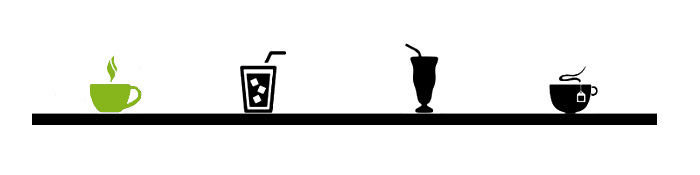
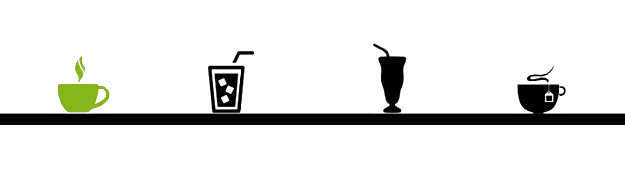
hawt dranks

diff --git a/hotdrinks.html b/hotdrinks.html
@@ -10,15 +10,15 @@
   <script src="js/jquery-1.10.2.min.js"></script>
   <script src="js/lightbox-2.6.min.js"></script>
   <script language="javascript">
-    hotdrinks = new Image(700,175);
+    hotdrinks = new Image(625,175);
     hotdrinks.src = "./img/hothover.png";
-    colddrinks = new Image(700,175);
+    colddrinks = new Image(625,175);
     colddrinks.src = "./img/coldhover.png";
-    specialty = new Image(700,175);
+    specialty = new Image(625,175);
     specialty.src = "./img/specialdrink.png";
-    tea = new Image(700,175);
+    tea = new Image(625,175);
     tea.src = "./img/teadrink.png";
-    og = new Image(700,175);
+    og = new Image(625,175);
     og.src = "./img/main_nav.png";
   </script>
   <script language="javascript">
@@ -41,7 +41,7 @@
 </head>
 
   <body>
-
+      
    <div id="top-nav">
           <div id="nav_container">
               <ul id="nav-ul">
@@ -53,59 +53,54 @@
           </div>
         </div>
    </div>
-      
-   <div id="menu_left_img">
-      <!--<img width="200px" height="150px" src="img/supermocha.jpg">-->
-   </div>
-   <div id="menu_rt_img">
-      <!--<img width="200px" height="150px" src="img/darklatte.jpg">-->
-   </div>
-
-    <div class="icon_nav_container">
-      <img class="icon_nav" name="emp" SRC="./img/main_nav.png" USEMAP="#hovnav">
-        <map id="#hovnav" name="hovnav">
-          <area shape="rect" alt="hotdrink" onFocus= "blur()" onMouseOver= "hothover()" onMouseOut="original()" coords="88,53,143,124" href="hotdrinks.html"  />
-          <area shape="rect" alt="colddrink" onFocus= "blur()" onMouseOver= "coldhover()" onMouseOut="original()" coords="234,51,289,123" href="colddrinks.html" />
-          <area shape="rect" alt="specialty" onFocus= "blur()" onMouseOver= "specialhover()" onMouseOut="original()"coords="403,40,440,123" href="specialties.html" />
-          <area shape="rect" alt="tealist" onFocus= "blur()" onMouseOver= "teahover()" onMouseOut="original()" coords="544,59,599,123" href="tealist.html" />
-        </map>
-    </div>
-
-    <div class = "menucontent">
-        <p class="menuheader"> HOT DRINKS </p>
-                <div class="shotcontainer">
-                    <p class="shotheader"> Single </p>
-                    <p class="shotheader"> Double</p>
-                    <p class="shotheader"> Grande </p>
-                </div>
-        <div id="namemenu">
-            <p>House Coffee</p>
-            <p>Espresso </p>
-            <p>Americano </p> 
-            <p>Cappucchino </p> 
-            <p>Espresso Latté </p> 
-            <p>Espresso Brevé</p>
-            <p>Guittard Espresso Mocha</p>
-            <p>White Espresso Mocha</p>
-            <p>Hammer Head</p>
-            <p>Iced Vietnamese</p>
-            <p>Spiced Chai Latté</p>
-            <p>Dulcé Terbe Maté Leché </p>
-            <p>Guittard Hot Chocolate</p>
-            <p>Chocolaté de Mexico</p>
-            <p>White Hot Chocolate</p>
-            <p>tea Latté (unsweetened)</p>
-            <p>Café au Lait</p>
-            <p>Steamer</p>
-        <br><p style="text-align:center"> Selection of 6        different roasts <br>
-         Wild Cat Dark -- French Roast Dark -- Sumatran Medium -- Columbian Medium <br>
-        Doughnut Shop Medium -- Decaf Maggie Noire Dark </p>
-      </div>
-    </div>
-    <br>
-    <br>
     
    
+    <!--menu left-->
+    <div id="menu-left">
+        <div class="icon_nav_container">
+      <img class="icon_nav" name="emp" SRC="./img/main_nav.png" USEMAP="#hovnav">
+        <map id="#hovnav" name="hovnav">
+          <area shape="rect" alt="hotdrink" onFocus= "blur()" onMouseOver= "hothover()" onMouseOut="original()" coords="23,49,131,122" href="hotdrinks.html"  />
+          <area shape="rect" alt="colddrink" onFocus= "blur()" onMouseOver= "coldhover()" onMouseOut="original()" coords="172,47,284,123" href="colddrinks.html" />
+          <area shape="rect" alt="specialty" onFocus= "blur()" onMouseOver= "specialhover()" onMouseOut="original()"coords="330,42,449,123" href="specialties.html" />
+          <area shape="rect" alt="tealist" onFocus= "blur()" onMouseOver= "teahover()" onMouseOut="original()" coords="483,63,594,123" href="tealist.html" />
+        </map>
+    </div>
+    
+    <div class = "menucontent">
+        <div id="menu-names">
+        <ul>
+            <li>House Coffee</li>
+            <li>Espresso</li>
+            <li>Americano</li>
+            <li>Cappuccino</li>
+            <li>Espresso Latte</li>
+            <li>Espresso Breve</li>
+            <li>Guitlard Espresso Mocha</li>
+            <li>Espresso Mocha de Mexico></li>
+            <li>White Espresso Mocha</li>
+            <li>Hammer Head</li>
+            <li>Iced Vietnamese</li>
+            <li>Spiced Chai Latte</li>
+            <li>Dulce Yerba Mate Leche</li>
+            <li>Guittard Hot Chocolate</li>
+            <li>Chocolate de Mexico</li>
+            <li>White Hot Chocolate</li>
+            <li>Tea Latte</li>
+            <li>Cafe au Lait</li>
+            <li>Steamer</li>
+            </ul>
+        </div>
+        <div id="menu-single"></div>
+        <div id="menu-double"></div>
+        <div id="menu-grande"></div>
+      </div>
+    </div>
+
+     <!--menu right-->
+    <div id="menu-right">
+
+    </div>
     
 
 <script type="text/javascript" src="http://code.jquery.com/jquery-latest.min.js"></script>

diff --git a/css/index.css b/css/index.css
@@ -452,7 +452,6 @@ ul#nav-ul {
 /* menu info */
 .menucontent {
   margin:0 auto;
-  width:48%;
   height:100%;
   font-size: 40pt;
   font-family:'Lato', serif;
@@ -460,7 +459,7 @@ ul#nav-ul {
 }
 
 .shotcontainer{
-margin-left:300px;
+    
 }
 
 .shotheader {
@@ -469,8 +468,52 @@ margin-left:300px;
   letter-spacing: 2px;
   font-size:16px;
   display:inline-block;
-  margin-left:20px;
-  padding:10px;
+  width: 33%;
+    margin: 0 auto;
+}
+
+#menu-left{
+    width: 50%;
+    min-width: 625px;
+    float: left;
+    background-image: url('../img/sprinkles.png');
+}
+
+#menu-left-pattern{
+    width: 100%%;
+    min-width: 625px;
+    float: left;
+    background-image: url('../img/arab_tile.png');
+    background-repeat: repeat;3
+    background-size: auto auto;
+    height: 100%;
+    position: fixed;
+    
+}
+
+#menu-single, #menu-double, #menu-names, #menu-grande{
+    width: 25%;
+    padding: 0px;
+    height: 30px;
+    margin: 0px;
+    display: inline-block;
+    float: left;
+    text-align: left;
+}
+
+#menu-single li, #menu-double li, #menu-names li, #menu-grande li{
+    font-family: 'Lato';
+    font-weight: 200;
+    font-size: 17px;
+    margin-left: 30px;
+    text-decoration: none;
+    list-style: none;
+}
+
+
+#menu-right{
+    width: 50%;
+    min-width: 625px;
 }
 
 .menuimage_1 img, .menuimage_2 img {
@@ -558,6 +601,7 @@ background-color:black;
 .icon_nav {
   margin-left: 0;
   margin-right: 0;
+  width: inherit;
 }
     
 /*CSS for contact form*/

diff --git a/menu.html b/menu.html
@@ -29,10 +29,10 @@
       
       
     <div id="drink_link">
-            <a id="drink_link_a" href="hotdrinks.html">Drinks</a>
+            <a id="drink_link_a" href="hotdrinks.html"> </a>
     </div>
     <div id="food_link">
-            <a id="food_link_a" href="bfast.html">Food</a>
+            <a id="food_link_a" href="bfast.html"> </a>
     </div>
                             
 

diff --git a/index.html b/index.html
@@ -89,7 +89,6 @@ function toggleFooter () {
   };
     
 
-
 </script>
 
 </body>
